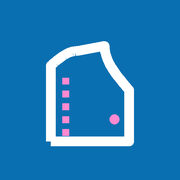
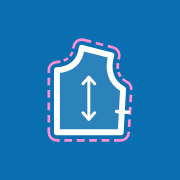
아이콘 다듬기: 매끄러운 몸판, 같은 간격 시접 점선, 너치, 식서선
Claude-Session: https://claude.ai/code/session_01GXiwj1DPQy6yfpxqwjE9RV

Changed region(s): [[0.25, 0.1944, 0.75, 0.8333]]

diff --git a/sw.js b/sw.js
@@ -1,6 +1,6 @@
 // 패턴잇다 서비스워커: 한 번 열면 인터넷 없이도 켜지게 한다.
 // 앱을 고칠 때마다 VERSION 숫자를 올려야 설치된 앱이 새 버전을 받는다.
-const VERSION = 'v11';
+const VERSION = 'v12';
 const CACHE = 'patternitda-' + VERSION;
 const CORE = [
   './',

diff --git a/CLAUDE.md b/CLAUDE.md
@@ -73,4 +73,4 @@ python tests/smoke_test.py samples/*.pax   # 실제 파일 왕복 검증까지
 - [ ] 갤럭시탭 S12 울트라(태블릿·DeX)에서 실제로 써 보고 불편한 점 알려 주기(재형)
 - [x] 시접 외곽선 직접 고르기 (자동으로 한 바퀴를 못 찾으면 차례로 눌러 고르기, [직접 고르기] 버튼)
 - [ ] 시접 F0·F1 두 폭 목록의 뜻 확인(PC·유카) — "시작·끝 폭"이 아니었음
-- [ ] 아이콘 다듬기
+- [x] 아이콘 다듬기 (11/6): 매끄러운 몸판 + 같은 간격 분홍 점선 시접 + 너치 + 식서선. 원본 그림은 `icons/icon.svg`
